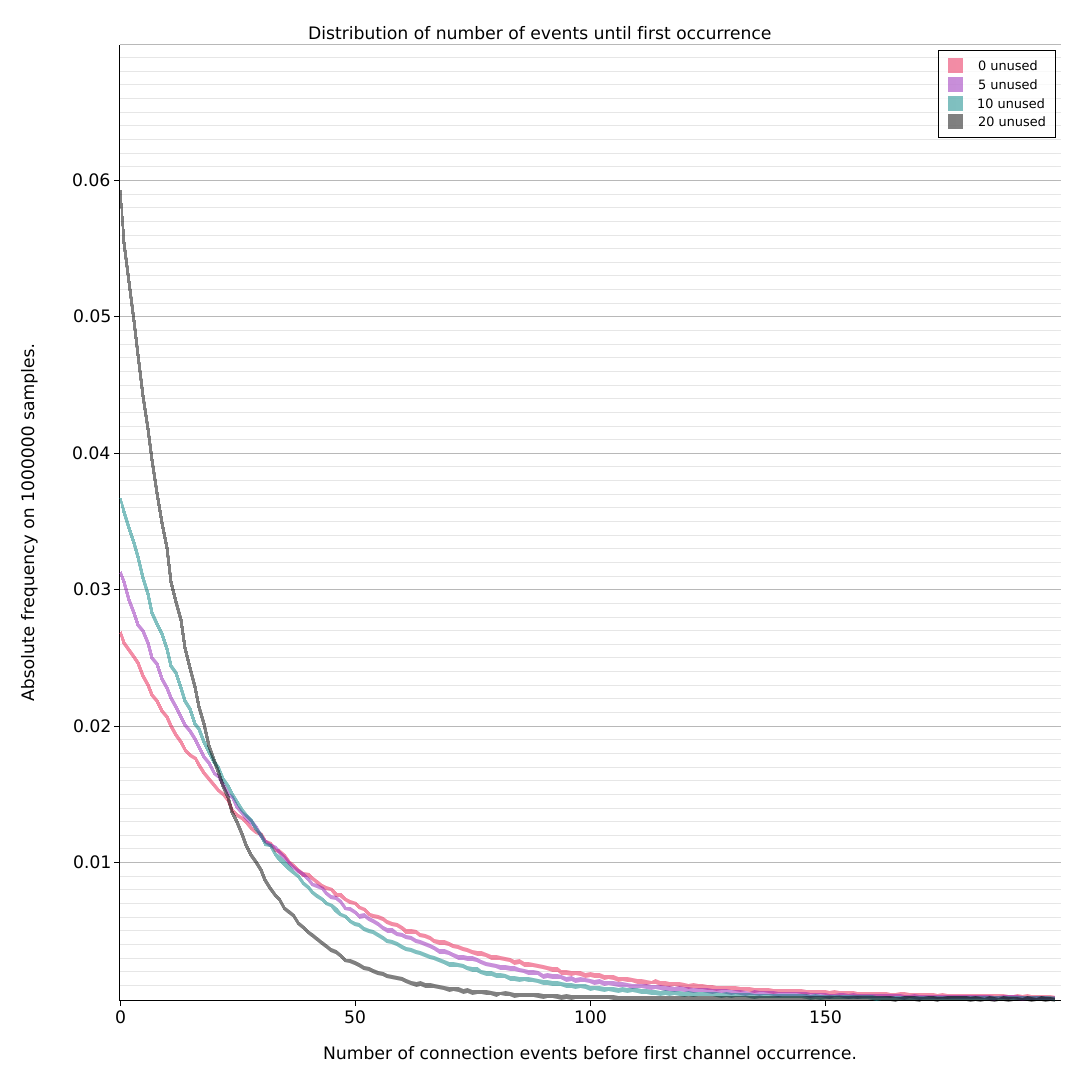
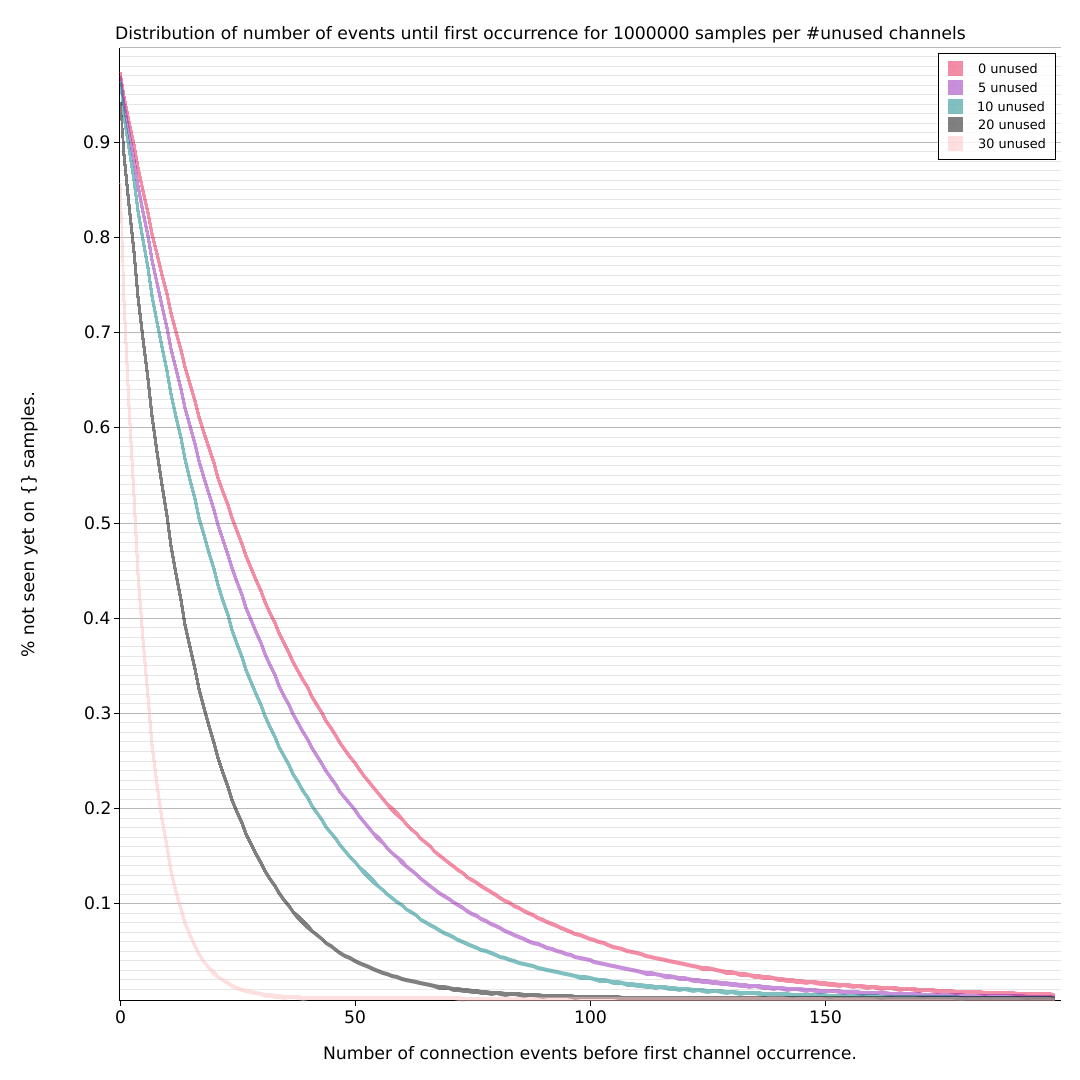
Made plot more informative

Changed region(s): [[0.0611, 0.0, 0.9778, 0.9472], [0.0, 0.3361, 0.0306, 0.6417]]

diff --git a/src/tasks/channel_occurence.rs b/src/tasks/channel_occurence.rs
@@ -21,7 +21,7 @@ fn events_until_occurrence<R: Rng>(dest_dir: &std::path::Path, rng: &mut R) {
     File::create(file_path.clone()).expect("Failed to create plot file");
 
     // Do a simulation
-    let nb_unused = vec![0_u8, 5, 10, 20];
+    let nb_unused = vec![0_u8, 5, 10, 20, 30];
     const NUMBER_SIM : u32 = 1000000;
     let sims = nb_unused.iter().map(|n| (*n, ChaCha20Rng::seed_from_u64(rng.next_u64()))).collect_vec();
     let sims = sims.into_par_iter().map(|(nb_unused, mut rng)| {
@@ -80,10 +80,10 @@ fn events_until_occurrence<R: Rng>(dest_dir: &std::path::Path, rng: &mut R) {
         // enable X axis, the size is 40 px in height
         .set_label_area_size(LabelAreaPosition::Bottom, 60) // Reserves place for axis description so they dont collide with labels/ticks
         // Set title. Font and size.
-        .caption("Distribution of number of events until first occurrence", ("sans-serif", 20))
+        .caption(format!("Distribution of number of events until first occurrence for {} samples per #unused channels", NUMBER_SIM), ("sans-serif", 20))
         .margin(20)
         //.build_cartesian_2d(min..max, 0..100_000u32)
-        .build_cartesian_2d(IntoLinspace::step(0..200_u32, 1), 0.0..0.07)
+        .build_cartesian_2d(IntoLinspace::step(0..200_u32, 1), 0.0..1.0)
         //(infos.iter().map(|f| OrderedFloat::from(f.total_revenue)).max().unwrap().into_inner() * 1.1))
         .expect("Chart building failed.");
 
@@ -93,7 +93,7 @@ fn events_until_occurrence<R: Rng>(dest_dir: &std::path::Path, rng: &mut R) {
     events_chart.configure_mesh()
         //.light_line_style(&WHITE)
         .disable_x_mesh()
-        .y_desc(format!("Absolute frequency on {} samples.", NUMBER_SIM))
+        .y_desc("% not seen yet on {} samples.")
         .x_desc("Number of connection events before first channel occurrence.")
         //.set_all_tick_mark_size(20) -> the little line that come out of the graph
         .label_style(("sans-serif", 20)) // The style of the numbers on an axis
@@ -106,7 +106,11 @@ fn events_until_occurrence<R: Rng>(dest_dir: &std::path::Path, rng: &mut R) {
 
         let color = Palette99::pick(nb_unused as usize).mix(0.5);
 
-        let l = LineSeries::new(events_chart.x_range().map(|i| (i, freqs.count(&i) as f64 / NUMBER_SIM as f64)), color.stroke_width(3));
+        let l = LineSeries::new(
+            events_chart.x_range().map(|i| 
+                (i, 1.0 - ((0..=i).map(|x|freqs.count(&x)).sum::<u64>() as f64 / NUMBER_SIM as f64))
+            )
+            , color.stroke_width(3));
 
         events_chart.draw_series(
             l).unwrap()
